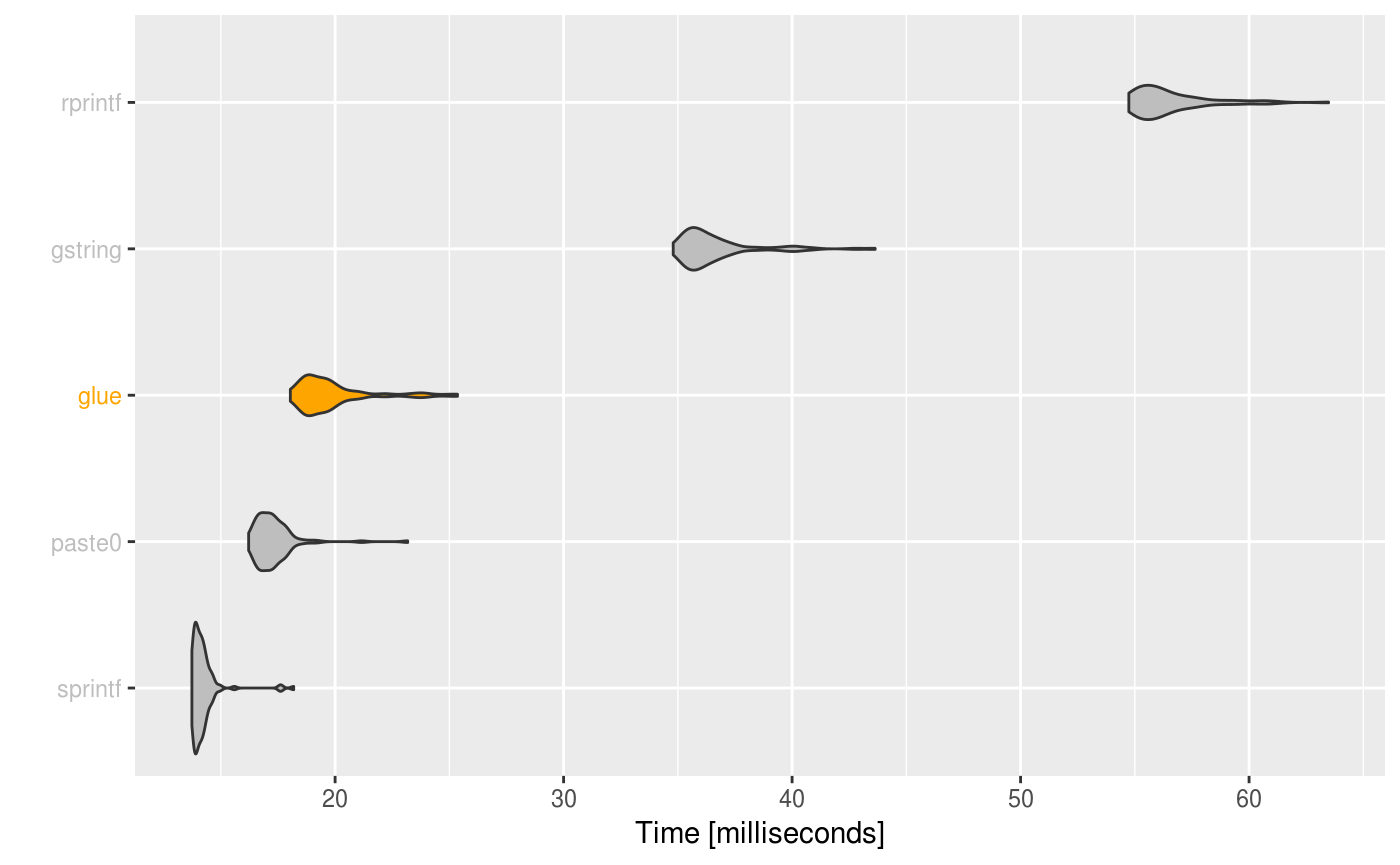
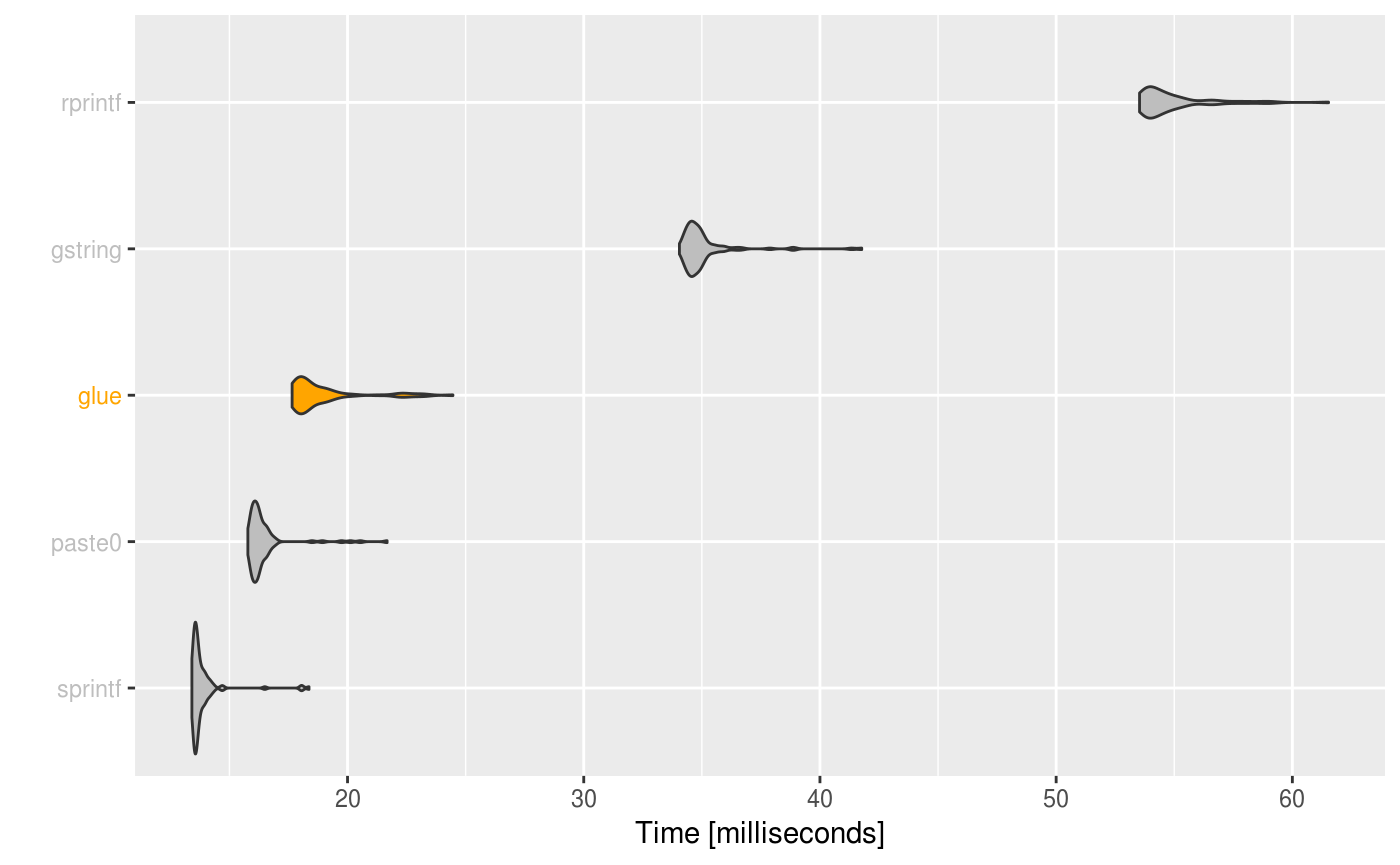
Built site for glue: 1.3.1.9000@f697661

diff --git a/dev/articles/speed.html b/dev/articles/speed.html
@@ -42,7 +42,7 @@
         <a class="navbar-brand" href="../index.html">glue</a>
         <div class="info">
           <span class="partof">part of the <a href="https://tidyverse.org">tidyverse</a></span>
-          <span class="version version-danger" data-toggle="tooltip" data-placement="bottom" title="In-development version">1.3.0.9000</span>
+          <span class="version version-danger" data-toggle="tooltip" data-placement="bottom" title="In-development version">1.3.1.9000</span>
         </div>
       </div>
     </div>
@@ -145,13 +145,13 @@
 <a class="sourceLine" id="cb1-12" data-line-number="12"></a>
 <a class="sourceLine" id="cb1-13" data-line-number="13"><span class="kw"><a href="https://www.rdocumentation.org/packages/base/topics/print">print</a></span>(<span class="dt">unit =</span> <span class="st">"eps"</span>, <span class="dt">order =</span> <span class="st">"median"</span>, <span class="dt">signif =</span> <span class="dv">4</span>, simple)</a>
 <a class="sourceLine" id="cb1-14" data-line-number="14"><span class="co">#&gt; Unit: evaluations per second</span></a>
-<a class="sourceLine" id="cb1-15" data-line-number="15"><span class="co">#&gt;        expr      min     lq   mean median     uq     max neval</span></a>
-<a class="sourceLine" id="cb1-16" data-line-number="16"><span class="co">#&gt;     rprintf   240.20   1735   1829   1841   1946    2186   100</span></a>
-<a class="sourceLine" id="cb1-17" data-line-number="17"><span class="co">#&gt;     gstring    18.03   1961   2063   2091   2247    2504   100</span></a>
-<a class="sourceLine" id="cb1-18" data-line-number="18"><span class="co">#&gt;  str_interp   830.90   2629   2860   2848   3094    3837   100</span></a>
-<a class="sourceLine" id="cb1-19" data-line-number="19"><span class="co">#&gt;        glue   877.00   4696   5261   5106   5737    8058   100</span></a>
-<a class="sourceLine" id="cb1-20" data-line-number="20"><span class="co">#&gt;      paste0 92600.00 280100 436000 427900 549700  838200   100</span></a>
-<a class="sourceLine" id="cb1-21" data-line-number="21"><span class="co">#&gt;     sprintf 35950.00 350500 554900 508800 617100 1468000   100</span></a>
+<a class="sourceLine" id="cb1-15" data-line-number="15"><span class="co">#&gt;        expr       min     lq   mean median     uq     max neval</span></a>
+<a class="sourceLine" id="cb1-16" data-line-number="16"><span class="co">#&gt;     rprintf    250.80   1837   1894   1888   1987    2245   100</span></a>
+<a class="sourceLine" id="cb1-17" data-line-number="17"><span class="co">#&gt;     gstring     18.61   2113   2225   2238   2404    2818   100</span></a>
+<a class="sourceLine" id="cb1-18" data-line-number="18"><span class="co">#&gt;  str_interp    170.10   2634   2834   2821   3085    3751   100</span></a>
+<a class="sourceLine" id="cb1-19" data-line-number="19"><span class="co">#&gt;        glue   1087.00   4952   5558   5443   6148    9041   100</span></a>
+<a class="sourceLine" id="cb1-20" data-line-number="20"><span class="co">#&gt;      paste0  73930.00 259100 460100 455200 586700  892100   100</span></a>
+<a class="sourceLine" id="cb1-21" data-line-number="21"><span class="co">#&gt;     sprintf 132800.00 342700 551900 528600 609900 1486000   100</span></a>
 <a class="sourceLine" id="cb1-22" data-line-number="22"></a>
 <a class="sourceLine" id="cb1-23" data-line-number="23"><span class="kw">plot_comparison</span>(simple)</a></code></pre></div>
 <p><img src="speed_files/figure-html/unnamed-chunk-1-1.png" width="700"></p>
@@ -179,11 +179,11 @@
 <a class="sourceLine" id="cb2-12" data-line-number="12"><span class="kw"><a href="https://www.rdocumentation.org/packages/base/topics/print">print</a></span>(<span class="dt">unit =</span> <span class="st">"ms"</span>, <span class="dt">order =</span> <span class="st">"median"</span>, <span class="dt">signif =</span> <span class="dv">4</span>, vectorized)</a>
 <a class="sourceLine" id="cb2-13" data-line-number="13"><span class="co">#&gt; Unit: milliseconds</span></a>
 <a class="sourceLine" id="cb2-14" data-line-number="14"><span class="co">#&gt;     expr   min    lq  mean median    uq   max neval</span></a>
-<a class="sourceLine" id="cb2-15" data-line-number="15"><span class="co">#&gt;  sprintf 13.73 13.87 14.23  14.08 14.29 18.19   100</span></a>
-<a class="sourceLine" id="cb2-16" data-line-number="16"><span class="co">#&gt;   paste0 16.22 16.71 17.28  17.16 17.56 23.18   100</span></a>
-<a class="sourceLine" id="cb2-17" data-line-number="17"><span class="co">#&gt;     glue 18.04 18.76 19.83  19.45 20.10 25.36   100</span></a>
-<a class="sourceLine" id="cb2-18" data-line-number="18"><span class="co">#&gt;  gstring 34.80 35.53 36.59  35.99 36.88 43.64   100</span></a>
-<a class="sourceLine" id="cb2-19" data-line-number="19"><span class="co">#&gt;  rprintf 54.74 55.35 56.52  55.97 57.17 63.48   100</span></a>
+<a class="sourceLine" id="cb2-15" data-line-number="15"><span class="co">#&gt;  sprintf 13.41 13.53 13.87  13.61 13.86 18.37   100</span></a>
+<a class="sourceLine" id="cb2-16" data-line-number="16"><span class="co">#&gt;   paste0 15.78 16.02 16.44  16.20 16.47 21.68   100</span></a>
+<a class="sourceLine" id="cb2-17" data-line-number="17"><span class="co">#&gt;     glue 17.65 17.95 18.90  18.31 19.05 24.46   100</span></a>
+<a class="sourceLine" id="cb2-18" data-line-number="18"><span class="co">#&gt;  gstring 34.05 34.49 35.06  34.71 35.07 41.77   100</span></a>
+<a class="sourceLine" id="cb2-19" data-line-number="19"><span class="co">#&gt;  rprintf 53.53 53.88 54.88  54.37 55.21 61.53   100</span></a>
 <a class="sourceLine" id="cb2-20" data-line-number="20"></a>
 <a class="sourceLine" id="cb2-21" data-line-number="21"><span class="kw">plot_comparison</span>(vectorized, <span class="dt">log =</span> <span class="ot">FALSE</span>)</a></code></pre></div>
 <p><img src="speed_files/figure-html/unnamed-chunk-2-1.png" width="700"></p>

diff --git a/dev/news/index.html b/dev/news/index.html
@@ -74,7 +74,7 @@
         <a class="navbar-brand" href="../index.html">glue</a>
         <div class="info">
           <span class="partof">part of the <a href="https://tidyverse.org">tidyverse</a></span>
-          <span class="version version-danger" data-toggle="tooltip" data-placement="bottom" title="In-development version">1.3.0.9000</span>
+          <span class="version version-danger" data-toggle="tooltip" data-placement="bottom" title="In-development version">1.3.1.9000</span>
         </div>
       </div>
     </div>
@@ -140,6 +140,34 @@
       <small>Source: <a href='https://github.com/tidyverse/glue/blob/master/NEWS.md'><code>NEWS.md</code></a></small>
     </div>
 
+    <div id="glue-1-3-1" class="section level1">
+<h1 class="page-header">
+<a href="#glue-1-3-1" class="anchor"></a>glue 1.3.1<small> 2019-03-12 </small>
+</h1>
+<div id="features" class="section level2">
+<h2 class="hasAnchor">
+<a href="#features" class="anchor"></a>Features</h2>
+<ul>
+<li>
+<code><a href="../reference/glue.html">glue()</a></code> now has a <code>+</code> method to combine strings.</li>
+<li>
+<code><a href="../reference/glue_sql.html">glue_sql()</a></code> now collapses zero-length vector into <code><a href="https://www.rdocumentation.org/packages/DBI/topics/SQL">DBI::SQL("NULL")</a></code> (<a href='https://github.com/tidyverse/glue/issues/134'>#134</a> <a href='https://github.com/shrektan'>@shrektan</a>).</li>
+</ul>
+</div>
+<div id="bugfixes-and-minor-changes" class="section level2">
+<h2 class="hasAnchor">
+<a href="#bugfixes-and-minor-changes" class="anchor"></a>Bugfixes and minor changes</h2>
+<ul>
+<li>
+<code><a href="../reference/glue_sql.html">glue_sql()</a></code> now supports unquoting lists of Id objects.</li>
+<li>
+<code><a href="../reference/glue_sql.html">glue_sql()</a></code> now quotes characters with NAs appropriately (<a href='https://github.com/tidyverse/glue/issues/115'>#115</a>).</li>
+<li>
+<code><a href="../reference/glue_sql.html">glue_sql()</a></code> now quotes Dates appropriately (<a href='https://github.com/tidyverse/glue/issues/98'>#98</a>).</li>
+<li>A potential protection error reported by rchk was fixed.</li>
+</ul>
+</div>
+</div>
     <div id="glue-1-3-0" class="section level1">
 <h1 class="page-header">
 <a href="#glue-1-3-0" class="anchor"></a>glue 1.3.0<small> 2018-07-17 </small>
@@ -152,17 +180,17 @@
 <li><p><code><a href="../reference/glue-deprecated.html">collapse()</a></code> has been renamed to <code><a href="../reference/glue_collapse.html">glue_collapse()</a></code> to avoid namespace collisions with <code><a href="https://dplyr.tidyverse.org/reference/compute.html">dplyr::collapse()</a></code>.</p></li>
 </ul>
 </div>
-<div id="features" class="section level2">
+<div id="features-1" class="section level2">
 <h2 class="hasAnchor">
-<a href="#features" class="anchor"></a>Features</h2>
+<a href="#features-1" class="anchor"></a>Features</h2>
 <ul>
 <li><p><code>compare.glue()</code> was added, to make it easier to use glue objects in <code><a href="https://www.rdocumentation.org/packages/testthat/topics/equality-expectations">testthat::expect_equal()</a></code> statements.</p></li>
 <li><p><code><a href="../reference/glue_col.html">glue_col()</a></code> and <code><a href="../reference/glue_col.html">glue_data_col()</a></code> functions added to display strings with color.</p></li>
 </ul>
 </div>
-<div id="bugfixes-and-minor-changes" class="section level2">
+<div id="bugfixes-and-minor-changes-1" class="section level2">
 <h2 class="hasAnchor">
-<a href="#bugfixes-and-minor-changes" class="anchor"></a>Bugfixes and minor changes</h2>
+<a href="#bugfixes-and-minor-changes-1" class="anchor"></a>Bugfixes and minor changes</h2>
 <ul>
 <li><p>Glue now throws an informative error message when it cannot interpolate a function into a string (<a href='https://github.com/tidyverse/glue/issues/114'>#114</a>, <a href='https://github.com/haleyjeppson'>@haleyjeppson</a> &amp; <a href='https://github.com/ijlyttle'>@ijlyttle</a>).</p></li>
 <li><p>Glue now evaluates unnamed arguments lazily with <code><a href="https://www.rdocumentation.org/packages/base/topics/delayedAssign">delayedAssign()</a></code>, so there is no performance cost if an argument is not used. (<a href='https://github.com/tidyverse/glue/issues/83'>#83</a>, <a href='https://github.com/egnha'>@egnha</a>).</p></li>
@@ -221,6 +249,7 @@
     <div id="tocnav">
       <h2>Contents</h2>
       <ul class="nav nav-pills nav-stacked">
+        <li><a href="#glue-1-3-1">1.3.1</a></li>
         <li><a href="#glue-1-3-0">1.3.0</a></li>
         <li><a href="#glue-1-2-0">1.2.0</a></li>
         <li><a href="#glue-1-1-1">1.1.1</a></li>

diff --git a/dev/index.html b/dev/index.html
@@ -45,7 +45,7 @@
         <a class="navbar-brand" href="index.html">glue</a>
         <div class="info">
           <span class="partof">part of the <a href="https://tidyverse.org">tidyverse</a></span>
-          <span class="version version-danger" data-toggle="tooltip" data-placement="bottom" title="In-development version">1.3.0.9000</span>
+          <span class="version version-danger" data-toggle="tooltip" data-placement="bottom" title="In-development version">1.3.1.9000</span>
         </div>
       </div>
     </div>
@@ -128,7 +128,7 @@
 <a class="sourceLine" id="cb1-3" data-line-number="3"></a>
 <a class="sourceLine" id="cb1-4" data-line-number="4"><span class="co"># Install the development version from GitHub:</span></a>
 <a class="sourceLine" id="cb1-5" data-line-number="5"><span class="co"># install.packages("devtools")</span></a>
-<a class="sourceLine" id="cb1-6" data-line-number="6">devtools<span class="op">::</span><span class="kw"><a href="https://www.rdocumentation.org/packages/devtools/topics/reexports">install_github</a></span>(<span class="st">"tidyverse/glue"</span>)</a></code></pre></div>
+<a class="sourceLine" id="cb1-6" data-line-number="6">devtools<span class="op">::</span><span class="kw">install_github</span>(<span class="st">"tidyverse/glue"</span>)</a></code></pre></div>
 </div>
 <div id="usage" class="section level2">
 <h2 class="hasAnchor">

diff --git a/dev/reference/glue.html b/dev/reference/glue.html
@@ -78,7 +78,7 @@ from the first and last lines are automatically trimmed." />
         <a class="navbar-brand" href="../index.html">glue</a>
         <div class="info">
           <span class="partof">part of the <a href="https://tidyverse.org">tidyverse</a></span>
-          <span class="version version-danger" data-toggle="tooltip" data-placement="bottom" title="In-development version">1.3.0.9000</span>
+          <span class="version version-danger" data-toggle="tooltip" data-placement="bottom" title="In-development version">1.3.1.9000</span>
         </div>
       </div>
     </div>

diff --git a/dev/reference/glue_col.html b/dev/reference/glue_col.html
@@ -84,7 +84,7 @@ expression (these can be nested).{blue 1 + 1 = {1 + 1}}
         <a class="navbar-brand" href="../index.html">glue</a>
         <div class="info">
           <span class="partof">part of the <a href="https://tidyverse.org">tidyverse</a></span>
-          <span class="version version-danger" data-toggle="tooltip" data-placement="bottom" title="In-development version">1.3.0.9000</span>
+          <span class="version version-danger" data-toggle="tooltip" data-placement="bottom" title="In-development version">1.3.1.9000</span>
         </div>
       </div>
     </div>

diff --git a/dev/reference/trim.html b/dev/reference/trim.html
@@ -83,7 +83,7 @@ Lines can be continued across newlines by using \.
         <a class="navbar-brand" href="../index.html">glue</a>
         <div class="info">
           <span class="partof">part of the <a href="https://tidyverse.org">tidyverse</a></span>
-          <span class="version version-danger" data-toggle="tooltip" data-placement="bottom" title="In-development version">1.3.0.9000</span>
+          <span class="version version-danger" data-toggle="tooltip" data-placement="bottom" title="In-development version">1.3.1.9000</span>
         </div>
       </div>
     </div>

diff --git a/dev/reference/quoting.html b/dev/reference/quoting.html
@@ -77,7 +77,7 @@ in conjunction with glue_collapse()." />
         <a class="navbar-brand" href="../index.html">glue</a>
         <div class="info">
           <span class="partof">part of the <a href="https://tidyverse.org">tidyverse</a></span>
-          <span class="version version-danger" data-toggle="tooltip" data-placement="bottom" title="In-development version">1.3.0.9000</span>
+          <span class="version version-danger" data-toggle="tooltip" data-placement="bottom" title="In-development version">1.3.1.9000</span>
         </div>
       </div>
     </div>

diff --git a/dev/reference/glue-deprecated.html b/dev/reference/glue-deprecated.html
@@ -77,7 +77,7 @@ in a future version." />
         <a class="navbar-brand" href="../index.html">glue</a>
         <div class="info">
           <span class="partof">part of the <a href="https://tidyverse.org">tidyverse</a></span>
-          <span class="version version-danger" data-toggle="tooltip" data-placement="bottom" title="In-development version">1.3.0.9000</span>
+          <span class="version version-danger" data-toggle="tooltip" data-placement="bottom" title="In-development version">1.3.1.9000</span>
         </div>
       </div>
     </div>

diff --git a/dev/reference/glue_sql.html b/dev/reference/glue_sql.html
@@ -79,7 +79,7 @@ SQL quoting." />
         <a class="navbar-brand" href="../index.html">glue</a>
         <div class="info">
           <span class="partof">part of the <a href="https://tidyverse.org">tidyverse</a></span>
-          <span class="version version-danger" data-toggle="tooltip" data-placement="bottom" title="In-development version">1.3.0.9000</span>
+          <span class="version version-danger" data-toggle="tooltip" data-placement="bottom" title="In-development version">1.3.1.9000</span>
         </div>
       </div>
     </div>

diff --git a/dev/reference/identity_transformer.html b/dev/reference/identity_transformer.html
@@ -77,7 +77,7 @@ transformer." />
         <a class="navbar-brand" href="../index.html">glue</a>
         <div class="info">
           <span class="partof">part of the <a href="https://tidyverse.org">tidyverse</a></span>
-          <span class="version version-danger" data-toggle="tooltip" data-placement="bottom" title="In-development version">1.3.0.9000</span>
+          <span class="version version-danger" data-toggle="tooltip" data-placement="bottom" title="In-development version">1.3.1.9000</span>
         </div>
       </div>
     </div>

diff --git a/dev/articles/releases/glue-1.2.0.html b/dev/articles/releases/glue-1.2.0.html
@@ -42,7 +42,7 @@
         <a class="navbar-brand" href="../../index.html">glue</a>
         <div class="info">
           <span class="partof">part of the <a href="https://tidyverse.org">tidyverse</a></span>
-          <span class="version version-danger" data-toggle="tooltip" data-placement="bottom" title="In-development version">1.3.0.9000</span>
+          <span class="version version-danger" data-toggle="tooltip" data-placement="bottom" title="In-development version">1.3.1.9000</span>
         </div>
       </div>
     </div>

diff --git a/dev/articles/index.html b/dev/articles/index.html
@@ -74,7 +74,7 @@
         <a class="navbar-brand" href="../index.html">glue</a>
         <div class="info">
           <span class="partof">part of the <a href="https://tidyverse.org">tidyverse</a></span>
-          <span class="version version-danger" data-toggle="tooltip" data-placement="bottom" title="In-development version">1.3.0.9000</span>
+          <span class="version version-danger" data-toggle="tooltip" data-placement="bottom" title="In-development version">1.3.1.9000</span>
         </div>
       </div>
     </div>
